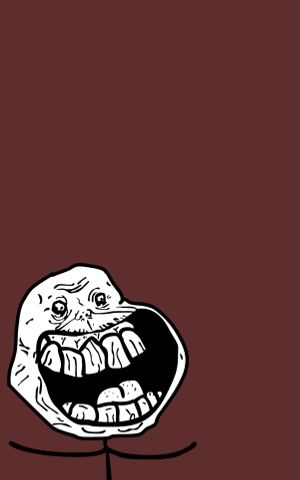
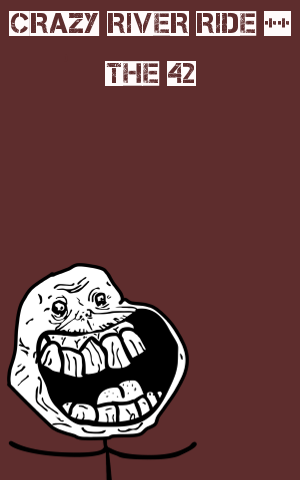
Implementadas pruebas alfa de cambio de stages.

Changed region(s): [[0.03, 0.0, 0.99, 0.0938], [0.33, 0.125, 0.66, 0.1875]]

diff --git a/core/src/com/infiniteloop/ride/PlayButton.java b/core/src/com/infiniteloop/ride/PlayButton.java
@@ -2,19 +2,18 @@ package com.infiniteloop.ride;
 
 import com.badlogic.gdx.graphics.g2d.Batch;
 import com.badlogic.gdx.graphics.g2d.TextureRegion;
-import com.badlogic.gdx.math.Vector2;
 import com.badlogic.gdx.scenes.scene2d.Actor;
 
 /**
  * Created by jackthebones on 20/06/15.
  */
-public class MenuBackground extends Actor {
+public class PlayButton extends Actor {
     private TextureRegion textureRegion;
 
-    public MenuBackground() {
-        textureRegion = new TextureRegion(Assets.menubackround);
+    public PlayButton() {
+        textureRegion = new TextureRegion(Assets.playbutton);
         setWidth(300);
-        setHeight(960 / 2);
+        setHeight(100);
 
     }
 

diff --git a/core/src/com/infiniteloop/ride/MenuState.java b/core/src/com/infiniteloop/ride/MenuState.java
@@ -29,6 +29,7 @@ public class MenuState extends ScreenAdapter {
     private BitmapFont font;
 
     private MenuBackground menuBackground;
+    private PlayButton playButton;
 
     public MenuState(RideGame game) {
         this.game = game;
@@ -46,8 +47,12 @@ public class MenuState extends ScreenAdapter {
         menuBackground = new MenuBackground();
         menuBackground.setPosition(0,0);
 
+        playButton = new PlayButton();
+        playButton.setPosition(0,300);
+
         MenuStage.addActor(label);
         MenuStage.addActor(menuBackground);
+        MenuStage.addActor(playButton);
 
 
 
